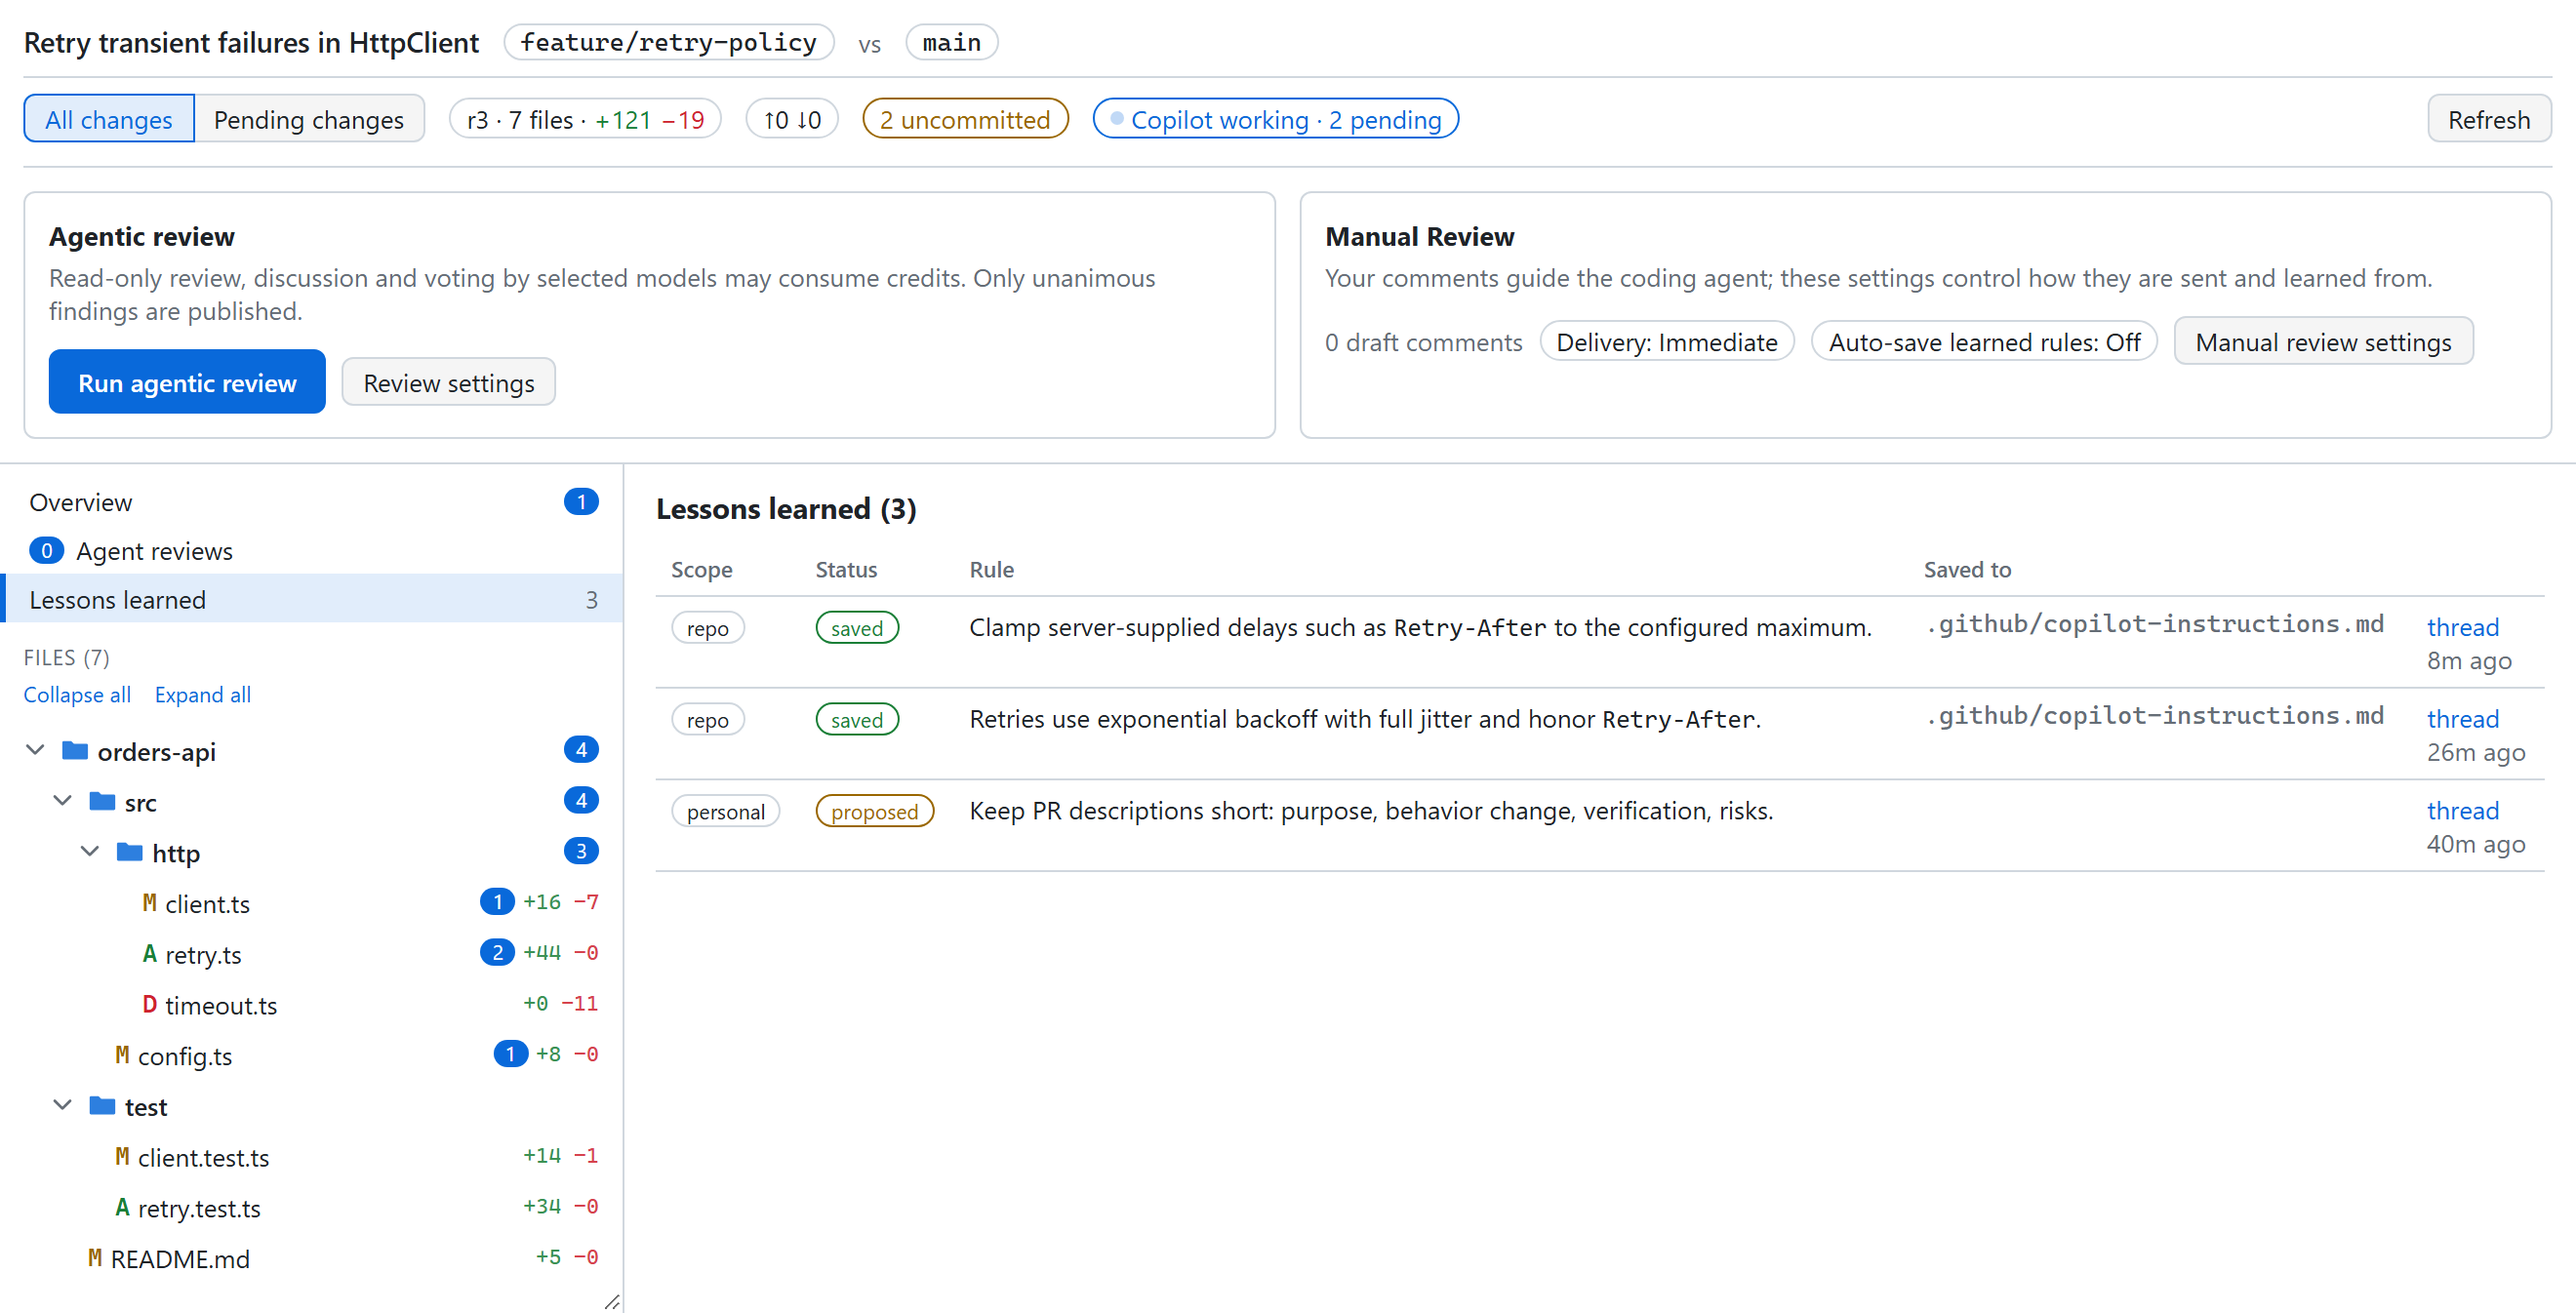
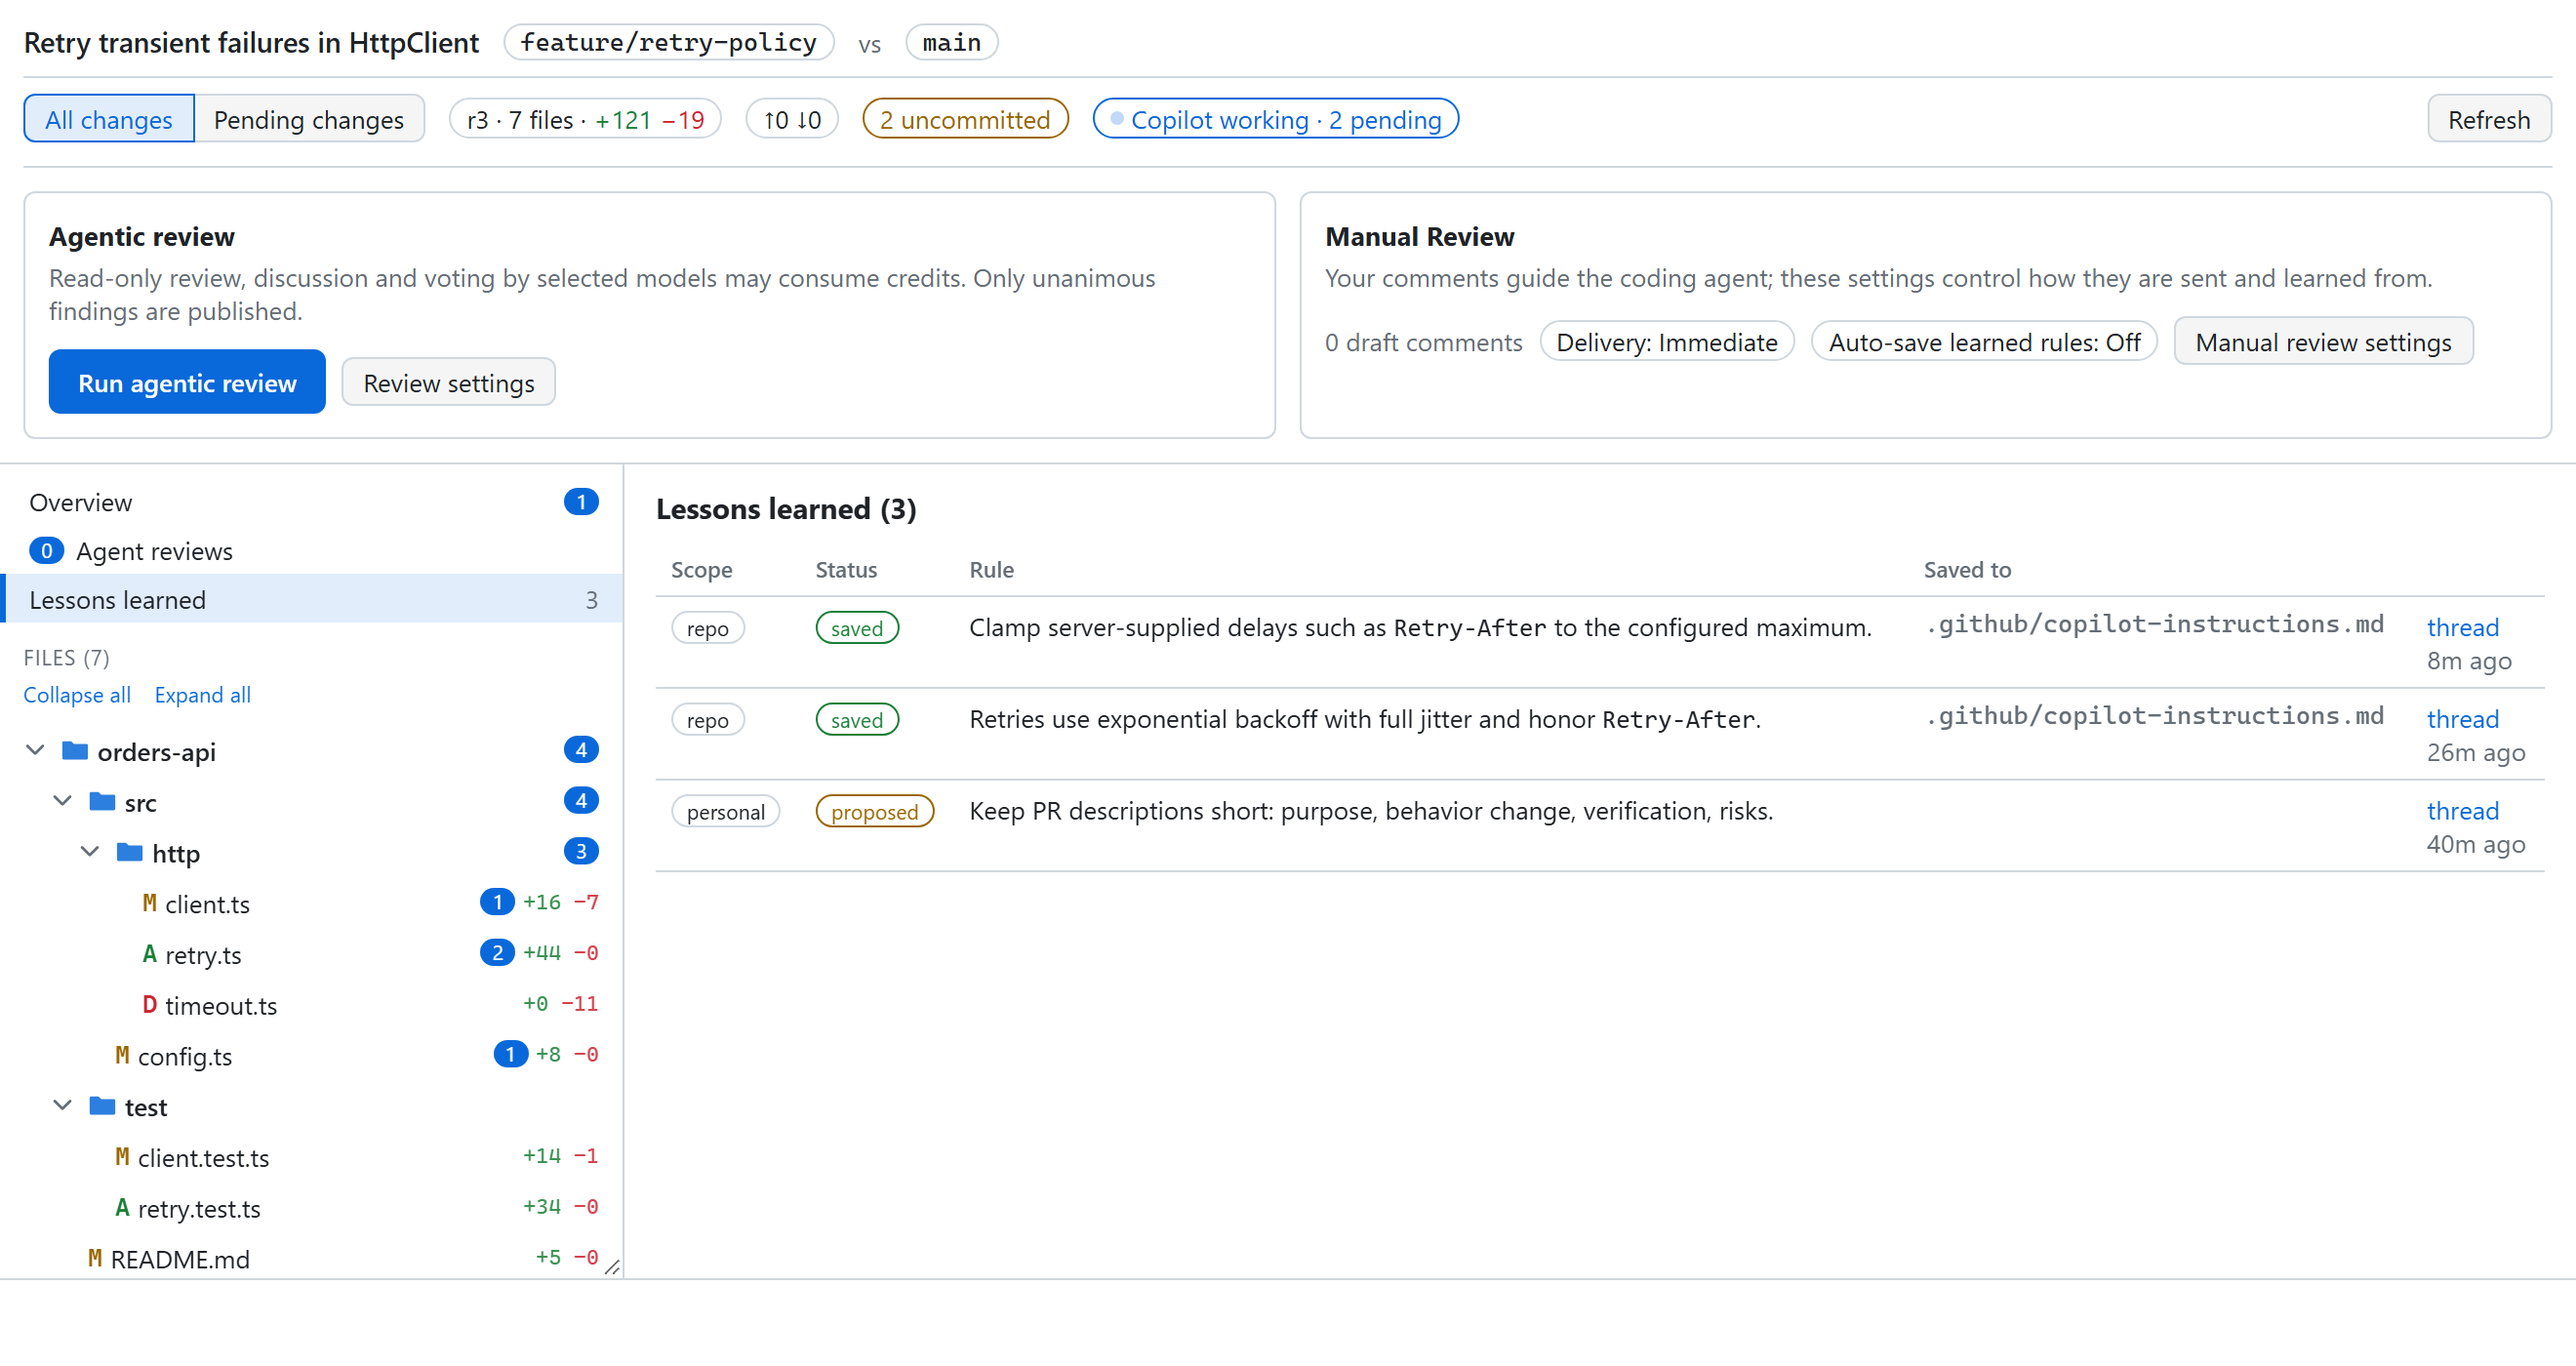
Keep the review layout stable while refreshing (#38)
* Keep the review layout stable while refreshing

Fixes #31.

* Preserve scroll for unchanged refresh errors

---------

Changed region(s): [[0.0, 0.0, 0.9939, 0.9673], [0.1864, 0.6553, 0.2174, 0.8113], [0.1864, 0.8737, 0.2485, 0.9361]]

diff --git a/extensions/self-review/src/web/app.ts b/extensions/self-review/src/web/app.ts
@@ -1060,6 +1060,7 @@ let refreshing = false;
 let loadError = "";
 let refreshError = "";
 let serverRefresh: StateResponse["refresh"];
+let renderedStatusHtml = "";
 
 function renderLoadStatus(): void {
     const status = $("#review-status");
@@ -1070,9 +1071,15 @@ function renderLoadStatus(): void {
     const failureLabel = loadError ? "Could not load the current review" : "Could not refresh from the working tree";
     status.hidden = !pending && !error;
     status.className = error && !pending ? "review-status del" : "review-status muted";
-    status.innerHTML = pending
+    const message = pending
         ? state.review ? "Refreshing review and Overview... Showing the last loaded data." : "Loading review and Overview..."
-        : error ? `${failureLabel}: ${esc(error)}. ${state.review ? "Showing the last loaded data. " : ""}<button data-action="refresh">Retry</button>` : "";
+        : error ? `${failureLabel}: ${esc(error)}. ${state.review ? "Showing the last loaded data." : ""}` : "";
+    const retry = error && !pending ? `<button type="button" data-action="refresh">Retry</button>` : "";
+    const html = message ? `<span class="review-status-message">${message}</span>${retry}` : "";
+    if (renderedStatusHtml !== html) {
+        status.innerHTML = html;
+        renderedStatusHtml = html;
+    }
 }
 
 async function loadState() {
@@ -1138,7 +1145,8 @@ function scheduleReload() {
         reloadPending = false;
         return;
     }
-    reloadTimer = window.setTimeout(() => loadState().catch((err: unknown) => toast(errorMessage(err), true)), 120);
+    // loadState already reports failures in the persistent status footer.
+    reloadTimer = window.setTimeout(() => loadState().catch(() => undefined), 120);
 }
 
 async function refreshReview(): Promise<void> {
@@ -1586,7 +1594,7 @@ function renderDialog() {
     const dialog = $("#dialog");
     if (!dialog) return;
     dialog.innerHTML = dialogHtml();
-    for (const id of ["#top", "#banner", "#layout"]) {
+    for (const id of ["#top", "#banner", "#layout", "#review-status-slot"]) {
         const el = $(id);
         if (el) el.inert = Boolean(state.dialog);
     }
@@ -2931,8 +2939,8 @@ async function onClick(e: MouseEvent): Promise<void> {
                 break;
         }
     } catch (err: unknown) {
-        toast(errorMessage(err), true);
         if (action === "refresh") target.removeAttribute("disabled");
+        else toast(errorMessage(err), true);
     }
 }
 

diff --git a/extensions/self-review/dist/web/app.js b/extensions/self-review/dist/web/app.js
@@ -834,6 +834,7 @@ let refreshing = false;
 let loadError = "";
 let refreshError = "";
 let serverRefresh;
+let renderedStatusHtml = "";
 function renderLoadStatus() {
     const status = $("#review-status");
     if (!status)
@@ -844,9 +845,15 @@ function renderLoadStatus() {
     const failureLabel = loadError ? "Could not load the current review" : "Could not refresh from the working tree";
     status.hidden = !pending && !error;
     status.className = error && !pending ? "review-status del" : "review-status muted";
-    status.innerHTML = pending
+    const message = pending
         ? state.review ? "Refreshing review and Overview... Showing the last loaded data." : "Loading review and Overview..."
-        : error ? `${failureLabel}: ${esc(error)}. ${state.review ? "Showing the last loaded data. " : ""}<button data-action="refresh">Retry</button>` : "";
+        : error ? `${failureLabel}: ${esc(error)}. ${state.review ? "Showing the last loaded data." : ""}` : "";
+    const retry = error && !pending ? `<button type="button" data-action="refresh">Retry</button>` : "";
+    const html = message ? `<span class="review-status-message">${message}</span>${retry}` : "";
+    if (renderedStatusHtml !== html) {
+        status.innerHTML = html;
+        renderedStatusHtml = html;
+    }
 }
 async function loadState() {
     clearTimeout(reloadTimer);
@@ -917,7 +924,8 @@ function scheduleReload() {
         reloadPending = false;
         return;
     }
-    reloadTimer = window.setTimeout(() => loadState().catch((err) => toast(errorMessage(err), true)), 120);
+    // loadState already reports failures in the persistent status footer.
+    reloadTimer = window.setTimeout(() => loadState().catch(() => undefined), 120);
 }
 async function refreshReview() {
     refreshing = true;
@@ -1382,7 +1390,7 @@ function renderDialog() {
     if (!dialog)
         return;
     dialog.innerHTML = dialogHtml();
-    for (const id of ["#top", "#banner", "#layout"]) {
+    for (const id of ["#top", "#banner", "#layout", "#review-status-slot"]) {
         const el = $(id);
         if (el)
             el.inert = Boolean(state.dialog);
@@ -2755,9 +2763,10 @@ async function onClick(e) {
         }
     }
     catch (err) {
-        toast(errorMessage(err), true);
         if (action === "refresh")
             target.removeAttribute("disabled");
+        else
+            toast(errorMessage(err), true);
     }
 }
 async function onChange(e) {

diff --git a/extensions/self-review/dist/web/index.html b/extensions/self-review/dist/web/index.html
@@ -10,12 +10,14 @@
 <body>
     <header id="top"><span class="muted">Loading review…</span></header>
     <div id="banner" role="region" aria-label="Guideline learning" hidden></div>
-    <div id="review-status" class="review-status muted" role="status" aria-live="polite" hidden></div>
     <div id="layout">
         <nav id="side" aria-label="Review navigation"></nav>
         <main id="main" tabindex="-1"></main>
         <div id="ruler" aria-hidden="true"></div>
     </div>
+    <footer id="review-status-slot" role="status" aria-live="polite">
+        <div id="review-status" class="review-status muted" hidden></div>
+    </footer>
     <div id="dialog"></div>
     <div id="toast" role="status" aria-live="polite" hidden></div>
     <script type="module" src="app.js"></script>

diff --git a/extensions/self-review/web/index.html b/extensions/self-review/web/index.html
@@ -10,12 +10,14 @@
 <body>
     <header id="top"><span class="muted">Loading review…</span></header>
     <div id="banner" role="region" aria-label="Guideline learning" hidden></div>
-    <div id="review-status" class="review-status muted" role="status" aria-live="polite" hidden></div>
     <div id="layout">
         <nav id="side" aria-label="Review navigation"></nav>
         <main id="main" tabindex="-1"></main>
         <div id="ruler" aria-hidden="true"></div>
     </div>
+    <footer id="review-status-slot" role="status" aria-live="polite">
+        <div id="review-status" class="review-status muted" hidden></div>
+    </footer>
     <div id="dialog"></div>
     <div id="toast" role="status" aria-live="polite" hidden></div>
     <script type="module" src="app.js"></script>

diff --git a/extensions/self-review/dist/web/styles.css b/extensions/self-review/dist/web/styles.css
@@ -96,8 +96,6 @@ body[data-theme-tone="light"] {
 
 * { box-sizing: border-box; }
 
-.review-status { padding: 8px 16px; border-bottom: 1px solid var(--mr-border); }
-
 html, body {
     margin: 0;
     height: 100%;
@@ -108,6 +106,25 @@ html, body {
 }
 
 body { display: flex; flex-direction: column; overflow: hidden; }
+
+#review-status-slot {
+    flex: 0 0 3.5rem;
+    min-height: 0;
+    border-top: 1px solid var(--mr-border);
+}
+.review-status:not([hidden]) {
+    display: flex;
+    align-items: center;
+    gap: 8px;
+    height: 100%;
+    padding: 4px 16px;
+}
+.review-status-message {
+    min-width: 0;
+    max-height: 100%;
+    overflow: auto;
+    overflow-wrap: anywhere;
+}
 
 button, select, textarea, input { font: inherit; color: inherit; }
 

diff --git a/extensions/self-review/web/styles.css b/extensions/self-review/web/styles.css
@@ -96,8 +96,6 @@ body[data-theme-tone="light"] {
 
 * { box-sizing: border-box; }
 
-.review-status { padding: 8px 16px; border-bottom: 1px solid var(--mr-border); }
-
 html, body {
     margin: 0;
     height: 100%;
@@ -108,6 +106,25 @@ html, body {
 }
 
 body { display: flex; flex-direction: column; overflow: hidden; }
+
+#review-status-slot {
+    flex: 0 0 3.5rem;
+    min-height: 0;
+    border-top: 1px solid var(--mr-border);
+}
+.review-status:not([hidden]) {
+    display: flex;
+    align-items: center;
+    gap: 8px;
+    height: 100%;
+    padding: 4px 16px;
+}
+.review-status-message {
+    min-width: 0;
+    max-height: 100%;
+    overflow: auto;
+    overflow-wrap: anywhere;
+}
 
 button, select, textarea, input { font: inherit; color: inherit; }
 

diff --git a/README.md b/README.md
@@ -51,7 +51,7 @@ Select lines on either side of the diff to start a thread.
 
 The overview has the PR-style description the agent drafted, the overall discussion, and every thread with its delivery state. Revision snapshots still anchor threads and agent reviews but are not listed on the overview.
 
-A status strip indicates when the review and Overview are loading or refreshing; existing content stays visible as last-loaded data while updates arrive. Failed loads remain visible with **Retry**, without discarding your navigation or comment drafts. A missing description means no draft has been saved, not that generation is underway: ask Copilot in the Overview discussion to write one. Descriptions based on an earlier diff are explicitly labeled until the agent updates them.
+A fixed-height footer shows when the review and Overview are loading or refreshing without moving the file tree, Overview, or controls. The last loaded review stays visible while updates arrive. Errors remain in the footer with **Retry**, without discarding your navigation or comment drafts. A missing description means no draft has been saved, not that generation is underway: ask Copilot in the Overview discussion to write one. Descriptions based on an earlier diff are explicitly labeled until the agent updates them.
 
 <picture>
   <source media="(prefers-color-scheme: dark)" srcset="docs/images/overview-dark.png">
@@ -273,6 +273,8 @@ npm run render
 ```
 
 Pass `-- --keep` to `npm run render` to leave the demo review running and print its URL.
+
+Run `npm run render -- --check-refresh-layout` from `docs/screenshots` after building to check that the file tree, Overview pane, and Refresh button stay in place during refresh, an error, and a successful retry. This opt-in check uses the same browser prerequisites and does not regenerate screenshots.
 
 ## Status
 
